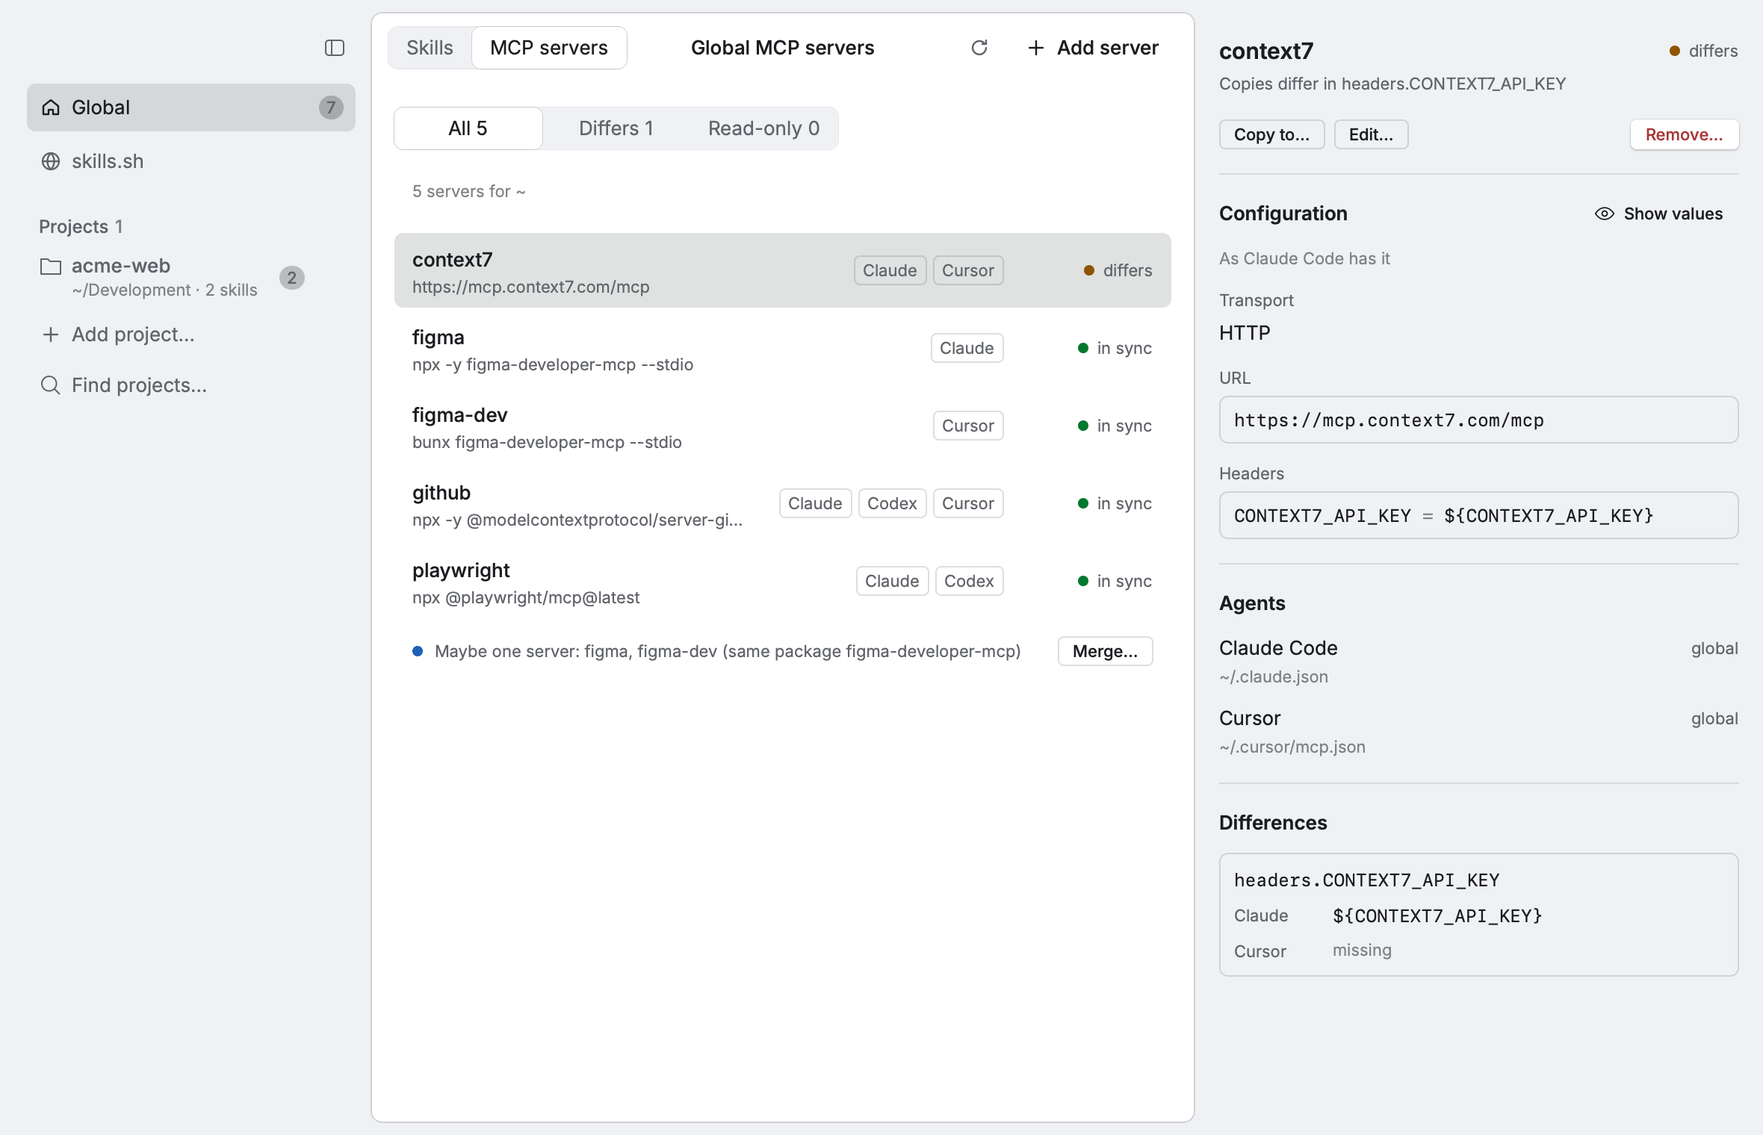
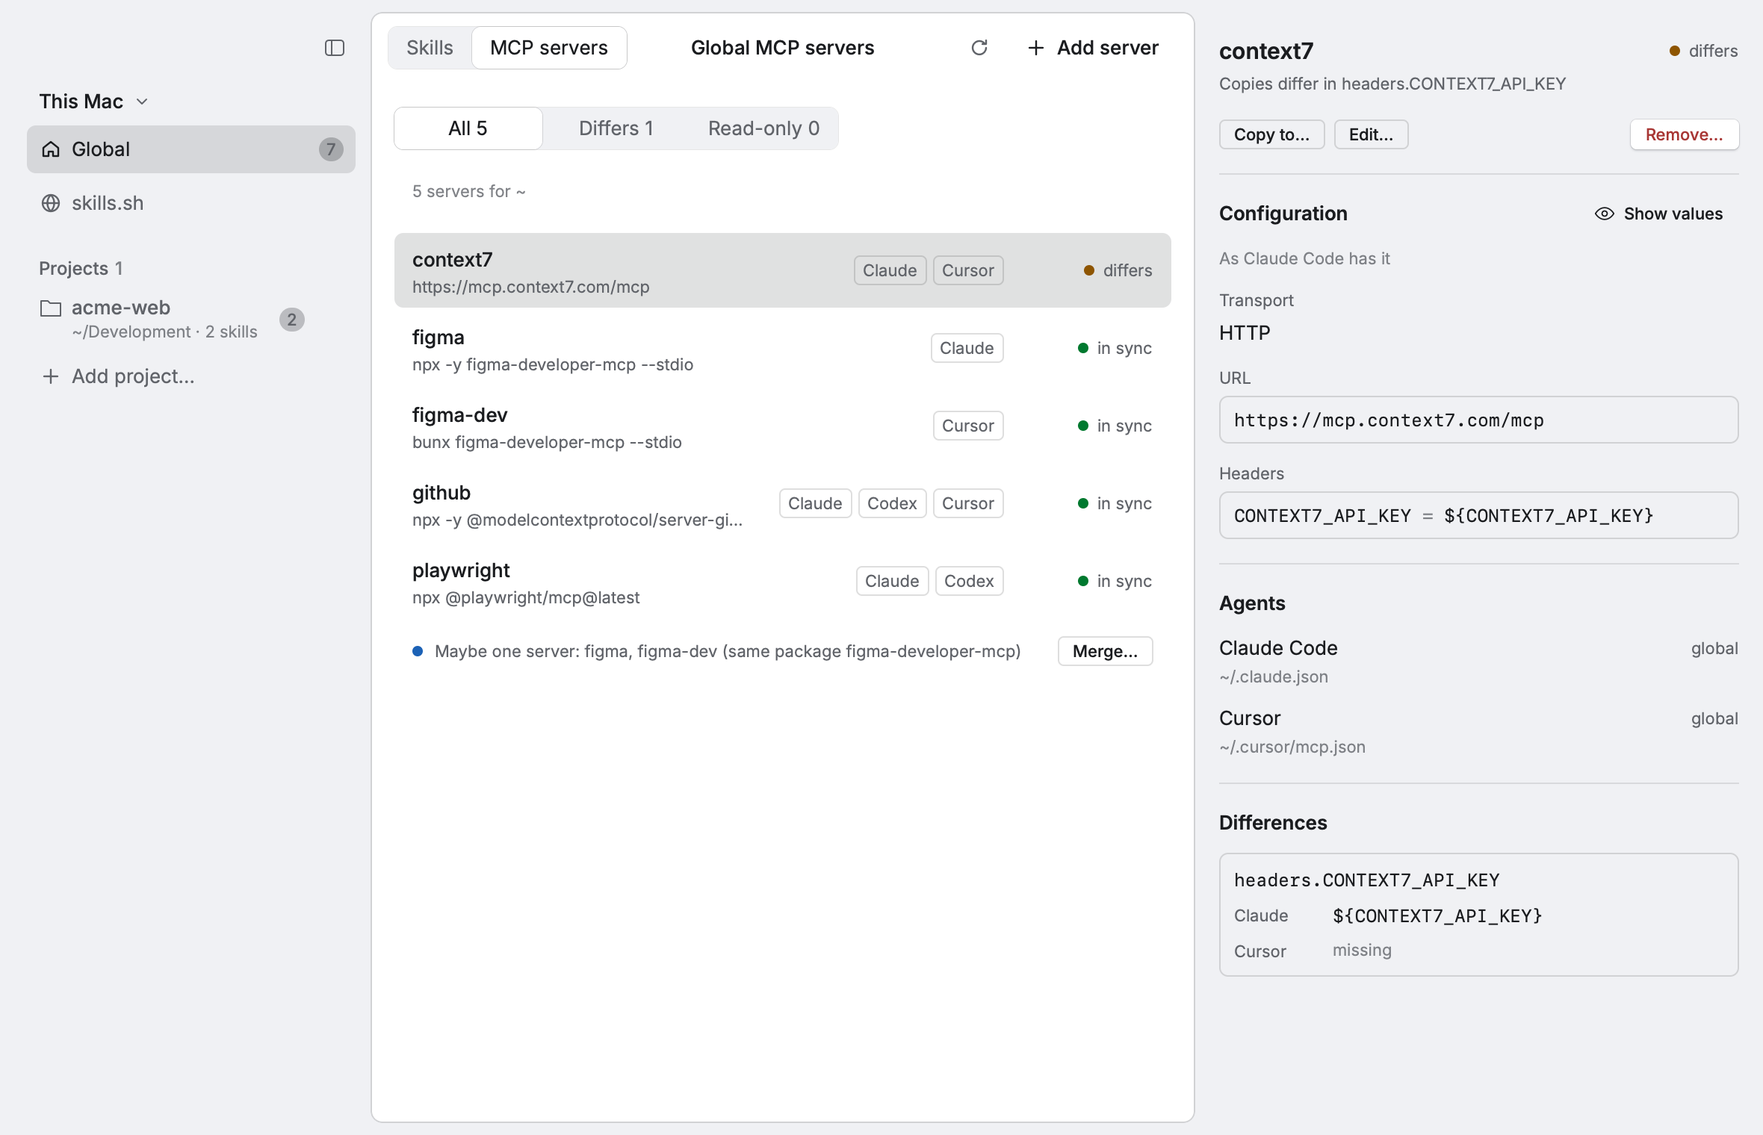
test: end to end over ssh; docs: other machines

Changed region(s): [[0.0, 0.0618, 0.2165, 0.3401]]

diff --git a/src/hosts/e2e.rs b/src/hosts/e2e.rs
@@ -1,0 +1,165 @@
+//! End to end over a real ssh: the Linux container `scripts/e2e-ssh.sh` starts, reached with
+//! the real [`Ssh`] runner (through the ssh_config the script writes, never the user's own)
+//! and running the CLI-only Linux build there. Ignored, since it needs that container:
+//!
+//! ```text
+//! ./scripts/e2e-ssh.sh && cargo test -- --ignored e2e_
+//! ```
+
+use std::path::{Path, PathBuf};
+use std::process::Command;
+use std::sync::Arc;
+use std::time::{Duration, Instant};
+
+use serde_json::Value;
+
+use super::Host;
+use super::copy::{copy_skills, this_machine};
+use super::runner::{Local, MakeRunner, Runner, Ssh};
+use crate::agents::{Paths, Scope};
+use crate::cli::{Ctx, run_with};
+use crate::store::Settings;
+
+/// The Host alias in the script's ssh_config.
+const TARGET: &str = "prism-e2e";
+const SECRET: &str = "FIXTURE_E2E_SECRET";
+
+fn cache() -> PathBuf {
+    dirs::home_dir().expect("a home folder").join(".cache/prism-e2e")
+}
+
+fn ssh(name: &str) -> Ssh {
+    let config = cache().join("ssh_config");
+    assert!(config.is_file(), "no {}: run ./scripts/e2e-ssh.sh first", config.display());
+    Ssh { name: name.into(), target: TARGET.into(), config: Some(config) }
+}
+
+/// `ssh -O <op>` on the control socket the runner uses: its own argv, the command swapped
+/// for the control operation.
+fn control(op: &str) -> std::process::Output {
+    let mut argv = ssh("box").argv("true");
+    argv.truncate(argv.len() - 3);
+    argv.extend(["-O".into(), op.into(), TARGET.into()]);
+    Command::new(&argv[0]).args(&argv[1..]).output().expect("ssh runs")
+}
+
+/// Runs `script` on the container; it must succeed. Its stdout.
+fn remote(script: &str) -> String {
+    let out = ssh("box").shell(script, None).expect("the container answers");
+    assert_eq!(out.code, 0, "{script}: {}", out.stderr);
+    String::from_utf8(out.stdout).unwrap()
+}
+
+/// A ctx on `home` whose "this" is `home` (in process) and whose hosts are the container.
+fn ctx(home: &Path) -> Ctx {
+    let paths = Paths::isolated(home);
+    let settings = Settings::load_from(&paths);
+    let here = home.to_path_buf();
+    let make_runner: MakeRunner = Arc::new(move |h: &Host| match h.name.as_str() {
+        "this" => Box::new(Local { name: h.name.clone(), home: here.clone() }) as Box<dyn Runner>,
+        _ => Box::new(Ssh { target: h.ssh.clone(), ..ssh(&h.name) }),
+    });
+    Ctx { paths, settings, stdin: None, path_var: None, make_runner }
+}
+
+fn go(ctx: &mut Ctx, args: &[&str]) -> (i32, String, String) {
+    let (mut out, mut err) = (Vec::new(), Vec::new());
+    let code = run_with(args, ctx, &mut out, &mut err);
+    (code, String::from_utf8(out).unwrap(), String::from_utf8(err).unwrap())
+}
+
+/// Runs `args`, which must exit 0 and print JSON; the JSON, and both streams as printed.
+fn ok(ctx: &mut Ctx, args: &[&str]) -> (Value, String) {
+    let (code, out, err) = go(ctx, args);
+    assert_eq!(code, 0, "prism {}: {out}{err}", args.join(" "));
+    (serde_json::from_str(&out).unwrap_or_else(|e| panic!("prism {}: {e}: {out}", args.join(" "))), format!("{out}{err}"))
+}
+
+fn skill(dir: &Path, name: &str) {
+    std::fs::create_dir_all(dir.join(name)).unwrap();
+    std::fs::write(dir.join(name).join("SKILL.md"), format!("---\nname: {name}\ndescription: {name} for the e2e test\n---\n\n# {name}\n")).unwrap();
+}
+
+#[test]
+#[ignore = "needs the container from ./scripts/e2e-ssh.sh"]
+fn e2e_copy_skill_and_server_over_ssh() {
+    // A fresh connection: no master left from an earlier run.
+    let _ = control("exit");
+    // The first call starts a ControlPersist master in the background; it must answer at once,
+    // not when that master exits a minute later (it would, were the master to hold our pipes).
+    let started = Instant::now();
+    let home = remote("rm -rf ~/.agents ~/.claude ~/.claude.json ~/.config ~/src && mkdir -p ~/.claude && printf %s \"$HOME\"");
+    assert!(started.elapsed() < Duration::from_secs(10), "the first call took {:?}", started.elapsed());
+    assert!(control("check").status.success(), "a master now runs in the background");
+
+    let here = tempfile::tempdir().unwrap();
+    let a = here.path();
+    std::fs::create_dir_all(a.join(".claude")).unwrap();
+    let mut c = ctx(a);
+
+    // The host: saved, checked, and given this build by upload.
+    ok(&mut c, &["hosts", "add", "box", "--ssh", TARGET, "--json"]);
+    let (check, _) = ok(&mut c, &["hosts", "check", "box", "--json"]);
+    assert_eq!((check["health"].as_str(), check["os"].as_str()), (Some("ready"), Some("linux")), "{check}");
+    let binary = cache().join("prism-linux");
+    let (installed, _) = ok(&mut c, &["hosts", "install", "box", "--binary", binary.to_str().unwrap(), "--json"]);
+    assert_eq!(installed["installed"], true);
+
+    // Two skills, one with a link inside, go across as one change.
+    let skills = a.join(".agents/skills");
+    skill(&skills, "emil-animations");
+    skill(&skills, "emil-typography");
+    std::os::unix::fs::symlink("SKILL.md", skills.join("emil-animations/README.md")).unwrap();
+    let copy = ["skills", "copy", "emil-animations", "emil-typography", "--to-host", "box", "--to-global", "--json"];
+    let (plan, _) = ok(&mut c, &copy);
+    assert_eq!(plan["actions"].as_array().map(Vec::len), Some(2), "{plan}");
+    assert!(plan["actions"][0].as_str().unwrap().ends_with(" on box"), "{plan}");
+    assert_eq!(remote("ls ~/.agents/skills 2>/dev/null || true"), "", "a plan changes nothing");
+    let id = plan["plan_id"].as_str().unwrap().to_string();
+    let (done, _) = ok(&mut c, &[&copy[..], &["--apply", "--plan-id", &id]].concat());
+    assert_eq!(done["applied"], true, "{done}");
+    let there = remote("cd ~ && cat .agents/skills/emil-typography/SKILL.md >/dev/null && readlink .agents/skills/emil-animations/README.md .claude/skills/emil-animations .claude/skills/emil-typography");
+    assert_eq!(there, "SKILL.md\n../../.agents/skills/emil-animations\n../../.agents/skills/emil-typography\n");
+
+    // A server with a secret: it travels on stdin, lands there whole, and is never printed.
+    std::fs::write(a.join(".claude.json"), format!(r#"{{"mcpServers":{{"mobbin":{{"command":"npx","args":["-y","mobbin-mcp"],"env":{{"MOBBIN_API_KEY":"{SECRET}"}}}}}}}}"#)).unwrap();
+    let copy = ["mcp", "copy", "mobbin", "--to-host", "box", "--to", "claude", "--json"];
+    let (plan, printed) = ok(&mut c, &copy);
+    assert_eq!(plan["actions"], serde_json::json!(["Add mobbin to Claude Code on box"]));
+    let id = plan["plan_id"].as_str().unwrap().to_string();
+    let (done, printed_too) = ok(&mut c, &[&copy[..], &["--apply", "--plan-id", &id]].concat());
+    assert_eq!(done["applied"], true, "{done}");
+    let config: Value = serde_json::from_str(&remote("cat ~/.claude.json")).unwrap();
+    assert_eq!(config["mcpServers"]["mobbin"]["env"]["MOBBIN_API_KEY"], SECRET);
+    let (listed, listed_text) = ok(&mut c, &["--host", "box", "mcp", "list", "--json"]);
+    assert!(listed.to_string().contains("mobbin"), "{listed}");
+    for text in [&printed, &printed_too, &listed_text] {
+        assert!(!text.contains(SECRET), "{text}");
+    }
+
+    // Undo on the host takes the server back: the copy made ~/.claude.json, so it goes.
+    let (undone, _) = ok(&mut c, &["--host", "box", "undo", "--json"]);
+    assert_eq!(undone["undone"], format!("copy mobbin from {}", this_machine()));
+    assert_eq!(remote("test -e ~/.claude.json && echo there || echo gone"), "gone\n");
+
+    // And back: Linux packs a skill linked in from elsewhere (mktemp -d, cp -RP) with a plain
+    // one, and this machine takes both.
+    remote("mkdir -p ~/src/notes && cd ~/src/notes && printf -- '---\\nname: from-linux\\ndescription: d\\n---\\n' > SKILL.md && ln -s SKILL.md README.md && ln -s ~/src/notes ~/.agents/skills/from-linux");
+    let back = tempfile::tempdir().unwrap();
+    std::fs::create_dir_all(back.path().join(".claude")).unwrap();
+    let to = Local { name: "this".into(), home: back.path().into() };
+    let sent = [("from-linux".to_string(), PathBuf::from(format!("{home}/src/notes"))), ("emil-typography".to_string(), PathBuf::from(format!("{home}/.agents/skills/emil-typography")))];
+    let from = ssh("box");
+    let plan = copy_skills(&from, "box", &Scope::Global, &sent, &to, this_machine(), &Scope::Global, None).unwrap();
+    assert_eq!(plan["actions"].as_array().map(Vec::len), Some(2), "{plan}");
+    let id = plan["plan_id"].as_str().unwrap();
+    let done = copy_skills(&from, "box", &Scope::Global, &sent, &to, this_machine(), &Scope::Global, Some(id)).unwrap();
+    assert_eq!(done["applied"], true, "{done}");
+    let got = back.path().join(".agents/skills");
+    assert!(std::fs::read_to_string(got.join("from-linux/SKILL.md")).unwrap().contains("name: from-linux"));
+    assert_eq!(std::fs::read_link(got.join("from-linux/README.md")).unwrap(), Path::new("SKILL.md"));
+    assert!(got.join("emil-typography/SKILL.md").is_file());
+    assert!(std::fs::symlink_metadata(back.path().join(".claude/skills/from-linux")).unwrap().file_type().is_symlink());
+
+    let _ = control("exit");
+}

diff --git a/src/hosts/runner.rs b/src/hosts/runner.rs
@@ -30,7 +30,7 @@ pub fn runner_for(host: &Host) -> Box<dyn Runner> {
     if matches!(host.name.as_str(), "this" | "local") {
         return Box::new(Here);
     }
-    Box::new(Ssh { name: host.name.clone(), target: host.ssh.clone() })
+    Box::new(Ssh { name: host.name.clone(), target: host.ssh.clone(), config: None })
 }
 
 /// What the CLI and the window use outside tests: [`runner_for`].
@@ -107,12 +107,18 @@ fn finish(res: std::io::Result<(i32, Vec<u8>, String)>) -> Result<Output, (i32, 
 pub struct Ssh {
     pub name: String,
     pub target: String,
+    /// An ssh config file in place of the user's (`ssh -F`). Only the end-to-end tests set it.
+    pub config: Option<PathBuf>,
 }
 
 impl Ssh {
     pub fn argv(&self, remote_command: &str) -> Vec<String> {
         let control = control_dir_path().join("%C");
-        let mut v: Vec<String> = ["ssh", "-T", "-o", "BatchMode=yes", "-o", "ConnectTimeout=5", "-o", "ControlMaster=auto"].map(String::from).into();
+        let mut v = vec!["ssh".to_string()];
+        if let Some(config) = &self.config {
+            v.extend(["-F".into(), config.to_string_lossy().into_owned()]);
+        }
+        v.extend(["-T", "-o", "BatchMode=yes", "-o", "ConnectTimeout=5", "-o", "ControlMaster=auto"].map(String::from));
         v.push("-o".into());
         v.push(format!("ControlPath={}", control.display()));
         v.extend(["-o", "ControlPersist=60"].map(String::from));
@@ -247,7 +253,7 @@ mod tests {
 
     #[test]
     fn ssh_argv_is_non_interactive() {
-        let ssh = Ssh { name: "laptop".into(), target: "george@laptop".into() };
+        let ssh = Ssh { name: "laptop".into(), target: "george@laptop".into(), config: None };
         let uid = unsafe { libc::getuid() };
         let want: Vec<String> = [
             "ssh", "-T", "-o", "BatchMode=yes", "-o", "ConnectTimeout=5", "-o", "ControlMaster=auto", "-o",
@@ -256,6 +262,14 @@ mod tests {
         .map(String::from)
         .into();
         assert_eq!(ssh.argv("true"), want);
+    }
+
+    #[test]
+    fn a_config_file_comes_first() {
+        let ssh = Ssh { name: "box".into(), target: "box".into(), config: Some("/tmp/e2e/ssh_config".into()) };
+        let argv = ssh.argv("true");
+        assert_eq!(argv[..4], ["ssh", "-F", "/tmp/e2e/ssh_config", "-T"]);
+        assert_eq!(argv[argv.len() - 3..], ["box", "--", "true"]);
     }
 
     #[test]
@@ -269,7 +283,7 @@ mod tests {
         std::fs::write(&fake, format!("#!/bin/sh\nprintf '%s\\n' \"$@\" > '{}'\ncat > '{}'\n", argv_file.display(), stdin_file.display())).unwrap();
         std::fs::set_permissions(&fake, std::fs::Permissions::from_mode(0o755)).unwrap();
 
-        let ssh = Ssh { name: "laptop".into(), target: "george@laptop".into() };
+        let ssh = Ssh { name: "laptop".into(), target: "george@laptop".into(), config: None };
         let args = ["mcp".to_string(), "add".to_string(), "KEY=-".to_string()];
         let mut cmd = ssh.command(&prism_command(&args)).unwrap();
         cmd.env("PATH", format!("{}:{}", dir.path().display(), std::env::var("PATH").unwrap_or_default()));
@@ -284,7 +298,7 @@ mod tests {
 
     #[test]
     fn a_target_starting_with_a_dash_is_refused() {
-        let ssh = Ssh { name: "evil".into(), target: "-oProxyCommand=touch /tmp/pwned".into() };
+        let ssh = Ssh { name: "evil".into(), target: "-oProxyCommand=touch /tmp/pwned".into(), config: None };
         let err = ssh.shell("true", None).unwrap_err();
         assert!(err.starts_with("Can't reach evil: ") && err.contains("starts with '-'"), "{err}");
     }
@@ -348,7 +362,7 @@ mod tests {
 
     #[test]
     fn an_unreachable_host_is_an_error_naming_it() {
-        let ssh = Ssh { name: "ghost".into(), target: "nobody@127.0.0.1:1".into() };
+        let ssh = Ssh { name: "ghost".into(), target: "nobody@127.0.0.1:1".into(), config: None };
         // ssh to a bad target exits 255; with no ssh at all the spawn fails: both are Err.
         let err = ssh.shell("true", None).unwrap_err();
         assert!(err.starts_with("Can't reach ghost: "), "{err}");

diff --git a/src/hosts/mod.rs b/src/hosts/mod.rs
@@ -1,6 +1,8 @@
 //! Saved remote hosts: a name Prism shows and the ssh target it connects to.
 
 pub mod copy;
+#[cfg(test)]
+mod e2e;
 pub mod install;
 pub mod runner;
 

diff --git a/README.md b/README.md
@@ -158,9 +158,35 @@ prism undo                                # takes back the last change, from her
 
 Add `--json` to any command for output a script or an agent can read. Secrets print as `***` unless you ask for `--show-secrets`; pass them in with `KEY=@file` or `KEY=-` (stdin) to keep them out of your shell history. Several `KEY=-` share stdin, their values apart by NUL bytes (`--env` ones first, then `--header` ones).
 
-### Other machines
+## Other machines
 
-Each release also carries a CLI-only build, without the window, for servers and other machines you reach over ssh: `prism-cli-X.Y.Z-linux-x86_64.tar.gz`, `prism-cli-X.Y.Z-linux-arm64.tar.gz` and `prism-cli-X.Y.Z-macos-arm64.tar.gz`, each holding one file, `prism`, and all listed in `SHA256SUMS`. You rarely need to fetch them yourself: save the machine with `prism hosts add dev-box --ssh me@dev-box`, then `prism hosts install dev-box` downloads the matching archive on that machine, checks it against `SHA256SUMS` and puts `prism` in `~/.local/bin`. Use `--binary PATH` to upload a build of your own instead.
+Prism also works on the machines you reach over ssh: a dev box, a server, your other laptop. It connects with your own ssh setup (keys, agent, `~/.ssh/config`), never a password, and runs `prism` there.
+
+<img src="docs/remote.png" alt="Prism showing the global skills of devbox, picked in the machine switcher above the scopes">
+
+**Hosts.** Save a machine under a name, with what follows `ssh`:
+
+```bash
+prism hosts add devbox --ssh me@devbox.lan   # or an alias from ~/.ssh/config
+prism hosts check devbox                     # reachable, and running this version of prism?
+prism hosts install devbox                   # put this version in ~/.local/bin there
+prism hosts list
+```
+
+The host needs the same version of `prism` as this machine. Each release carries a CLI-only build, without the window, for that: `prism-cli-X.Y.Z-linux-x86_64.tar.gz`, `prism-cli-X.Y.Z-linux-arm64.tar.gz` and `prism-cli-X.Y.Z-macos-arm64.tar.gz`, each holding one file, `prism`, and all listed in `SHA256SUMS`. `prism hosts install` downloads the matching archive on the host, checks it against `SHA256SUMS` and puts `prism` in `~/.local/bin`; nothing else there changes. Use `--binary PATH` to upload a build of your own instead.
+
+**The switcher.** The machine menu above the scopes lists this machine, your saved hosts and *Add host…*. Pick a host and the window shows its skills, projects and MCP servers, and every action (sync, link, remove, edit a server, undo) acts there. A host without this version of `prism` offers *Install prism*; one that doesn't answer says why and offers *Retry*. skills.sh installs always land on this machine; copy them across afterwards.
+
+**Copy across.** *Copy to…* on skills, and on an MCP server, lists your other machines next to the scopes of this one, so a skill or a server goes from this Mac to a host, from a host back here, or between two hosts. Each copy shows its plan first, as every change does, and the plan says what will need fixing there, such as a command path that only exists here. Secrets travel inside ssh on stdin, never in a command line. From the terminal:
+
+```bash
+prism skills copy pdf emil-animations --to-host devbox --to-global
+prism skills copy pdf --to-host devbox --to-project /home/me/site --apply
+prism mcp copy mobbin --to-host devbox --to claude codex
+prism mcp copy github --to-host devbox --to claude --to-project /home/me/site --claude-scope project
+```
+
+**`--host`.** Any command runs on a host with `--host NAME`, its output and exit code as the host gives them: `prism --host devbox doctor`, `prism --host devbox mcp list --json`. A copy to a host is one change there, so `prism --host devbox undo` takes it back.
 
 ## Keyboard
 
@@ -184,8 +210,15 @@ On Linux, ⌘ is Ctrl.
 
 ```bash
 cargo test                    # core and UI tests, headless, on a throwaway $HOME
-cargo test -- --ignored       # also hit skills.sh and GitHub
+cargo test -- --ignored       # also hit skills.sh and GitHub; the e2e_ ones need the container below
 ./scripts/demo-home.sh        # rebuild the screenshots in docs/ from a demo home
+```
+
+The end to end tests reach a Linux container over a real ssh. `scripts/e2e-ssh.sh` starts it (Docker, or Colima on macOS), with a throwaway key and the CLI-only Linux build of `prism`; it keeps everything in `~/.cache/prism-e2e` and never touches your `~/.ssh`:
+
+```bash
+./scripts/e2e-ssh.sh && cargo test -- --ignored e2e_
+./scripts/e2e-ssh.sh --down   # stop the container and delete ~/.cache/prism-e2e
 ```
 
 Any screen renders without a window, which is handy for checking layout:
@@ -194,7 +227,7 @@ Any screen renders without a window, which is handy for checking layout:
 ./target/debug/prism --snap out.png --scene sync --theme dark
 ```
 
-Scenes: `detail`, `sync`, `remove`, `bulk`, `bulk-remove`, `updates`, `copy`, `new-skill`, `browse`, `repo`, `notice`, `mcp`, `mcp-add`, `mcp-copy`.
+Scenes: `detail`, `sync`, `remove`, `bulk`, `bulk-remove`, `updates`, `copy`, `copy-to-host`, `new-skill`, `browse`, `repo`, `notice`, `found`, `mcp`, `mcp-add`, `mcp-copy`, `env-remote`, `env-unreachable`.
 
 | Path | What it does |
 | --- | --- |
@@ -205,6 +238,7 @@ Scenes: `detail`, `sync`, `remove`, `bulk`, `bulk-remove`, `updates`, `copy`, `n
 | `src/remote.rs` | skills.sh search, previews from GitHub, the `skills` CLI |
 | `src/mcp/` | MCP servers: each agent's config format, scans, plans and edits |
 | `src/cli/` | the `prism` command line and `prism setup` |
+| `src/hosts/` | saved hosts, running `prism` over ssh, installing it there, copies between machines |
 | `src/app/` | app state and actions |
 | `src/ui/` | the screens, built with rune-kit |
 

diff --git a/docs/design/layout.md b/docs/design/layout.md
@@ -4,6 +4,30 @@ The window is a `SplitView`: sidebar (scopes and projects), main pane (toolbar, 
 inspector (the selected item). Every page fills these three; a new page never adds a fourth
 column or a second toolbar.
 
+## Environment switcher
+
+The sidebar's first header is the machine in view: a `Select` (`hosts::switcher`,
+`src/ui/hosts.rs`) listing `this_machine()` ("This Mac", "This computer" on Linux), each saved
+host by name, then "Add host…", which opens the Add host dialog instead of switching. Picking a
+host makes it the environment: the scopes, projects, pages and every action are that
+machine's, and `s.env_label()` names it wherever a machine is named: plans ("Asking devbox
+for the plan…"), the Copy to… dialogs and toasts. Nothing else marks a remote environment;
+no banner, no tint. On skills.sh a caption says installs land on this machine (`browse_note`).
+
+Until a host's state is in, `hosts::pending` replaces the main pane of the Skills and MCP
+pages (the toolbar keeps its tabs and the host's name; the inspector is empty):
+
+- Connecting: `Spinner` plus "Connecting to devbox…" (`small`, `text_muted`), or "Installing
+  prism 0.1.0 on devbox…" while an install runs.
+- Needs install: `empty("prism 0.1.0 isn't on devbox", detail)`, the detail saying what
+  Install does ("Install puts it in ~/.local/bin on devbox; nothing else there changes.") or
+  why it can't (no release for that system: use `prism hosts install --binary`), then
+  "Install prism" (`Contrast`, disabled when unsupported).
+- Unreachable: `empty("Can't reach devbox", why)`, the why being ssh's last line without the
+  "Can't reach devbox: " prefix, then "Retry" (`Ghost`).
+
+Scenes: `env-remote` (a host in view) and `env-unreachable`.
+
 ## Toolbar
 
 `Toolbar::new().leading(page_tabs(…)).title(scope_title(…)).trailing(row().gap(6.0)…)`.

diff --git a/DESIGN.md b/DESIGN.md
@@ -40,8 +40,13 @@ anything not listed here does not exist in this app and is a bug if you add it.
   Use these before writing a new element; add a new helper here, not in a page file, when two
   pages need it.
 - `src/ui/installed.rs`: `tag()` and `placement_color()`.
+- `src/ui/hosts.rs`: the environment switcher (`switcher`, the `Select` that heads the
+  sidebar: this machine, the saved hosts, "Add host…"), what the main pane shows while a host
+  connects, needs prism or can't be reached (`pending`), and the Add host and host Add
+  project… dialogs. The machine in view is `App::env`; its name is `s.env_label()`, which
+  dialogs and toasts use instead of spelling "This Mac".
 - Page files (`installed.rs`, `browse.rs`, `mcp.rs`) and dialog files (`dialogs.rs`,
-  `mcp_dialogs.rs`) compose the helpers; they do not define new styles.
+  `mcp_dialogs.rs`, `hosts.rs`) compose the helpers; they do not define new styles.
 
 ## Checking a change
 
